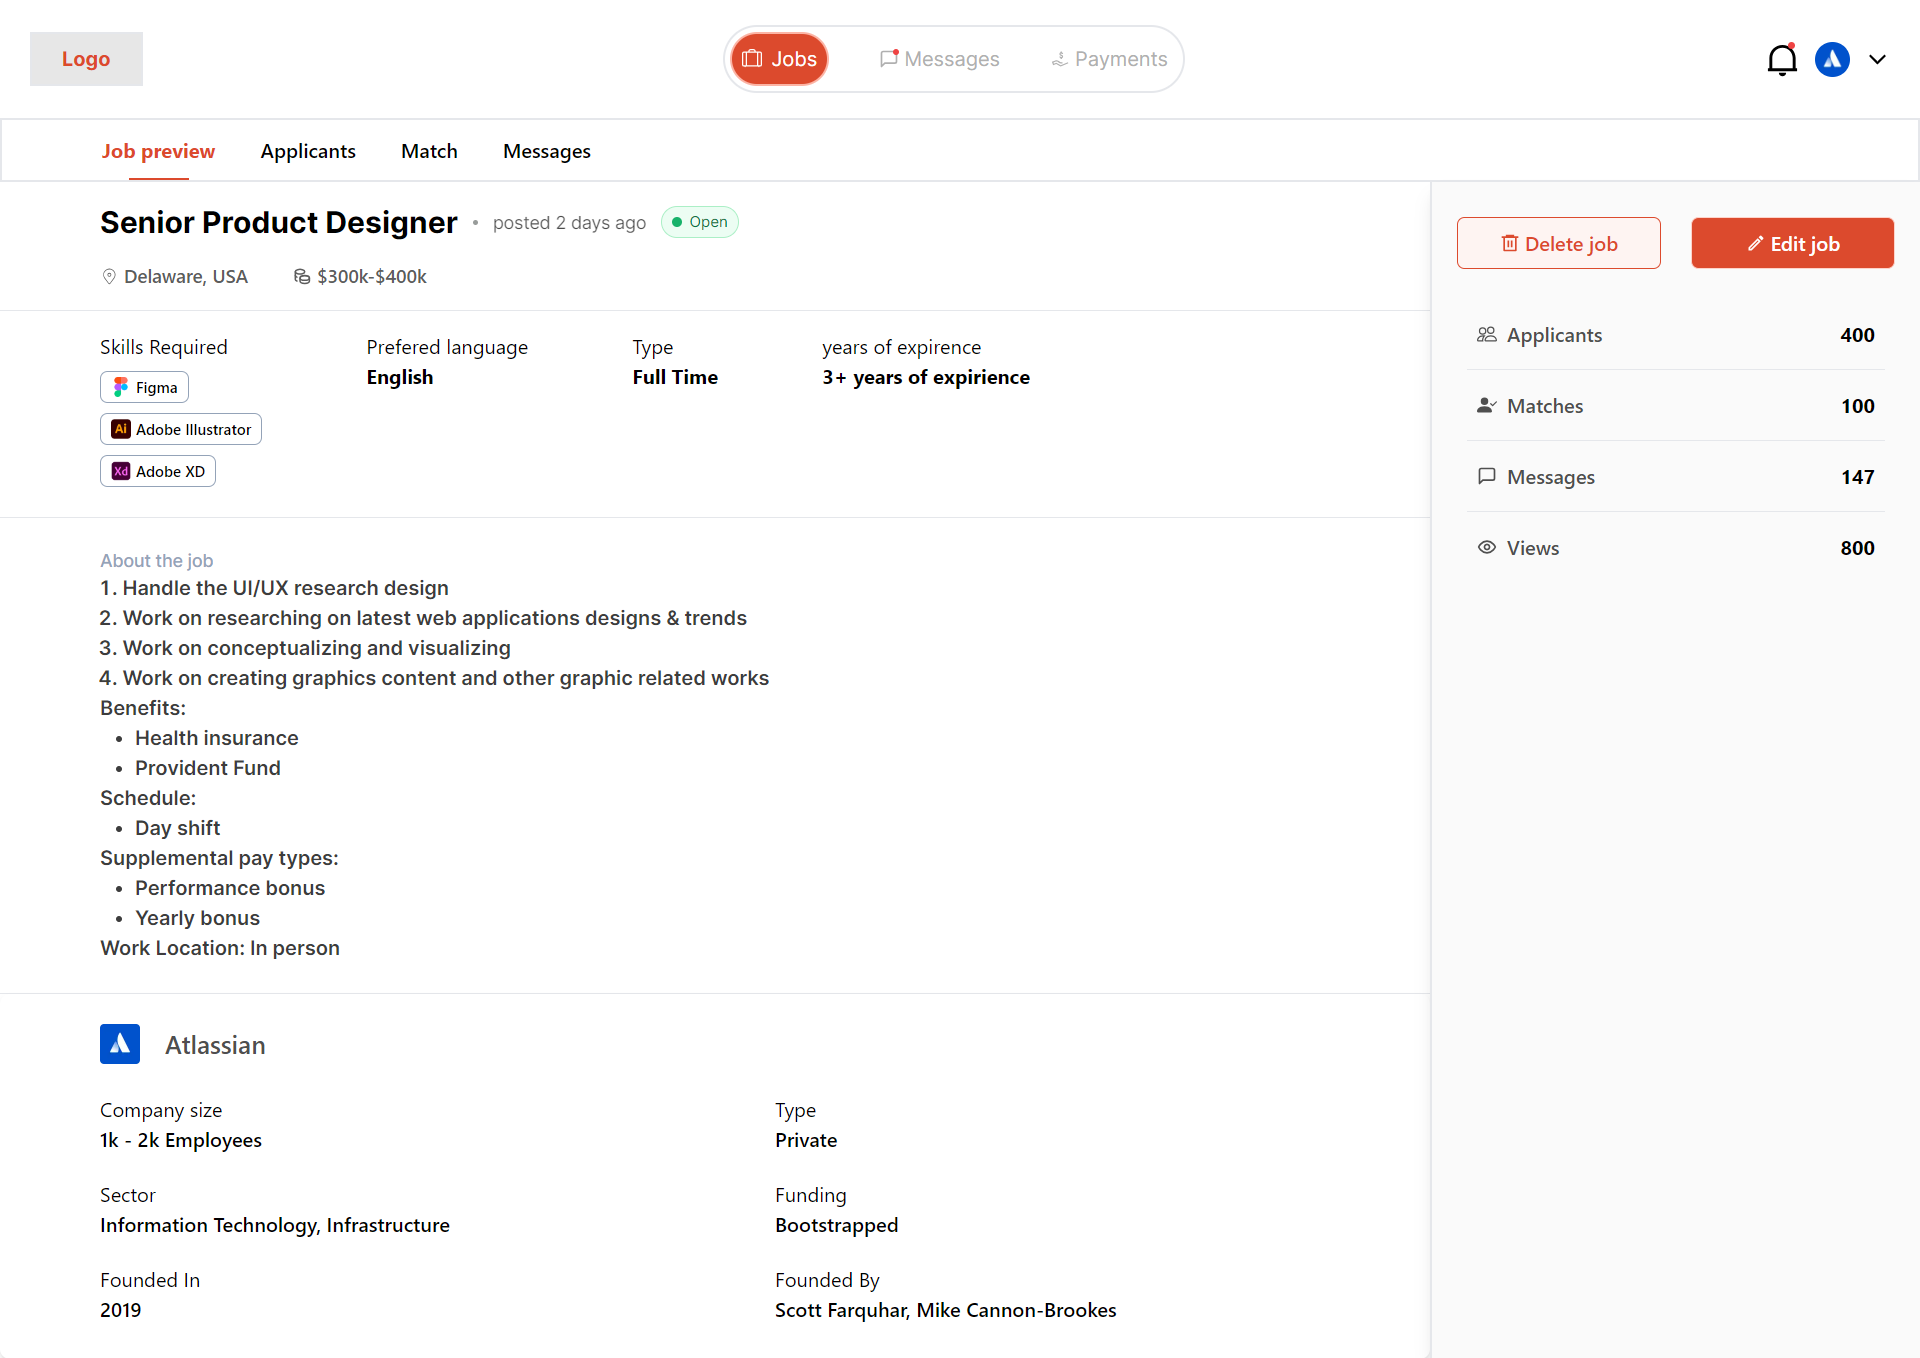
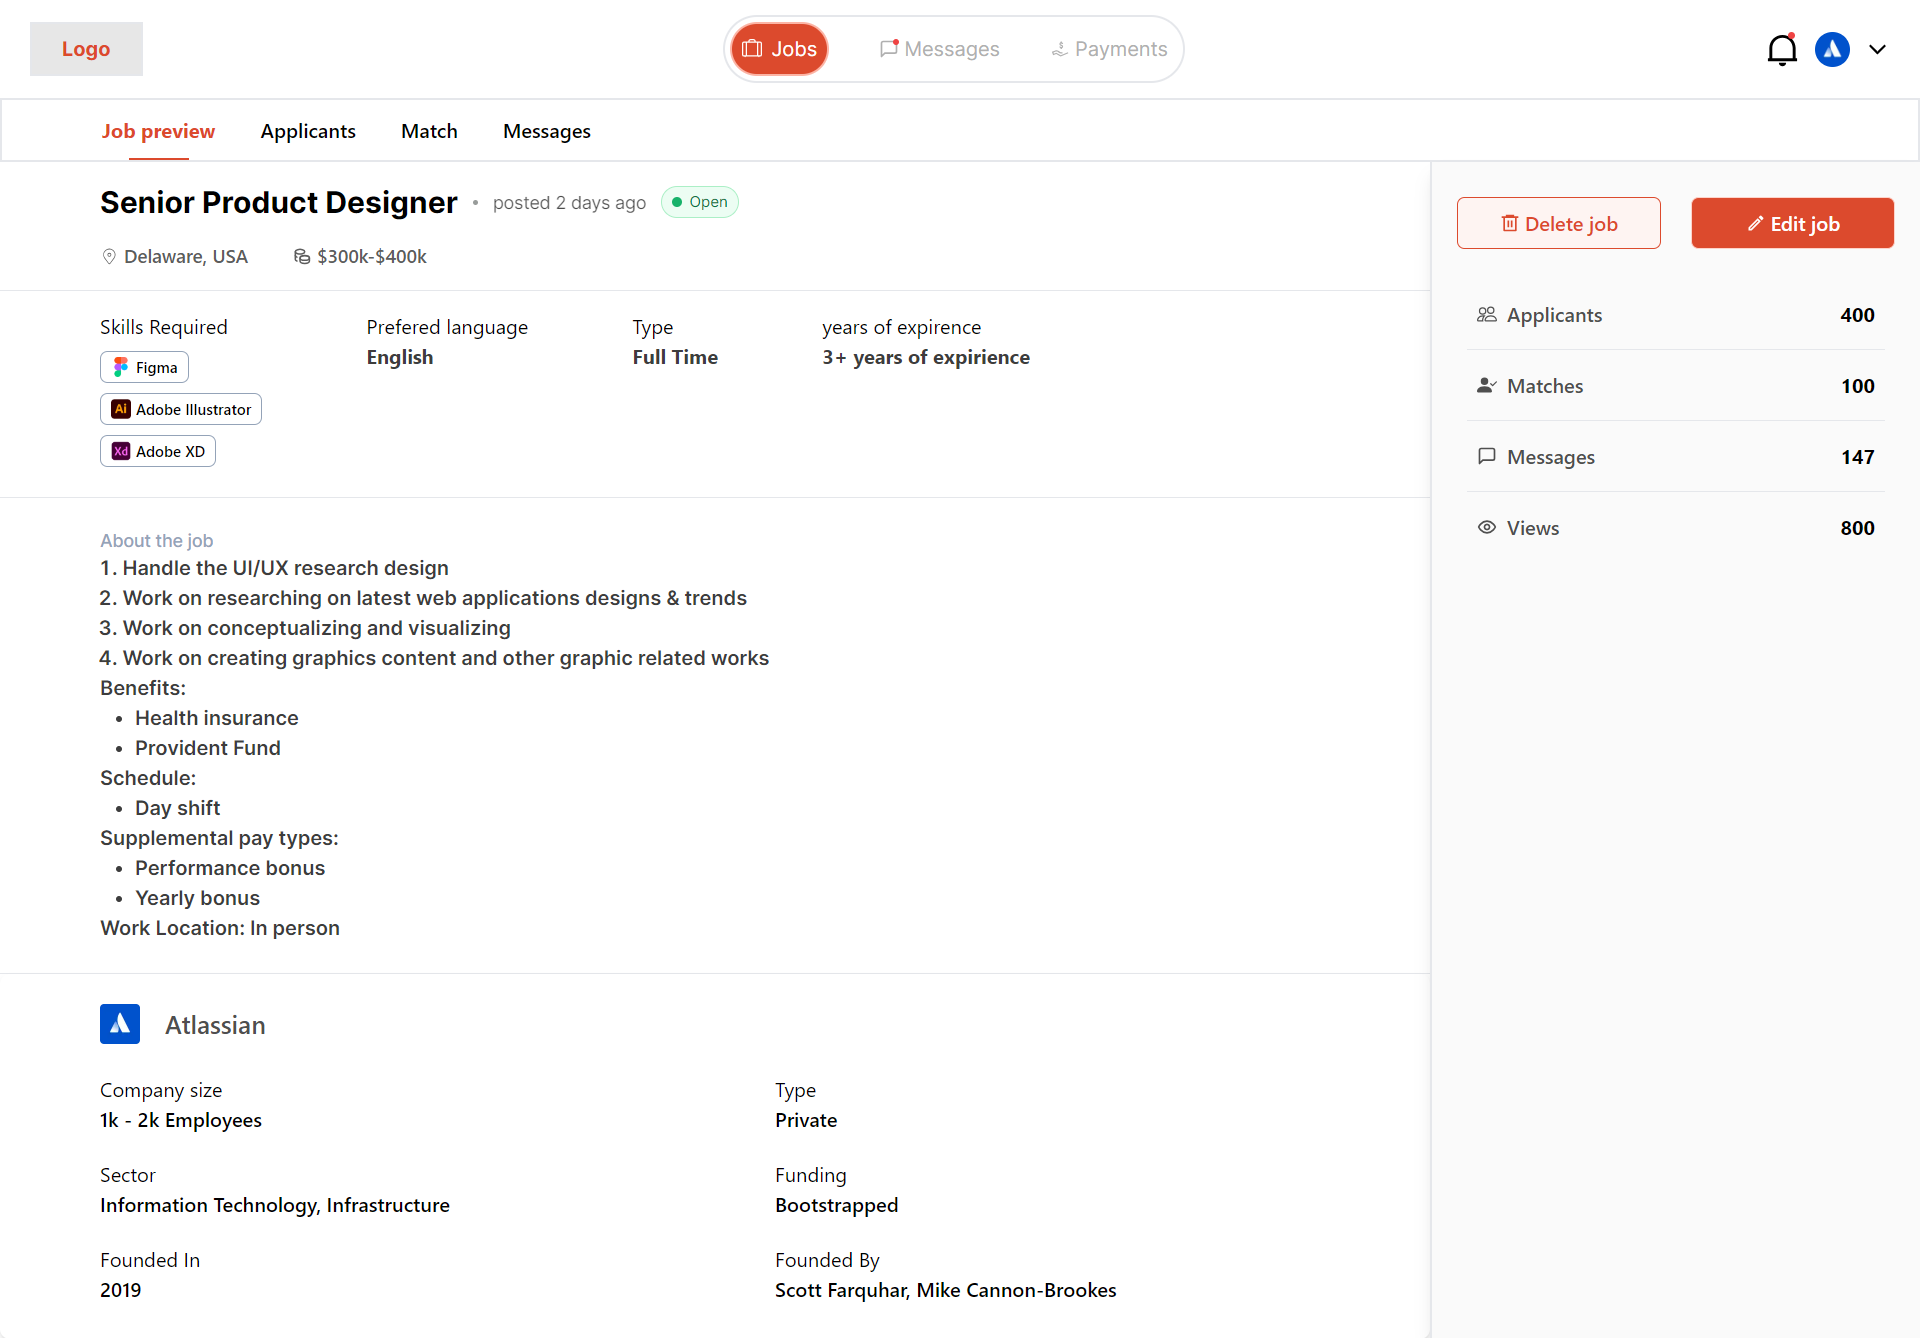
Some changes

diff --git a/components/LeftM.jsx b/components/LeftM.jsx
@@ -63,15 +63,15 @@ const LeftM = () => {
           </div>
           <div className="flex flex-col ">
             Prefered language
-            <span className="font-[700]">English</span>
+            <span className="font-[700] text-[#3D3D3D]">English</span>
           </div>
           <div className="flex flex-col">
             Type
-            <span className="font-[700]">Full Time</span>
+            <span className="font-[700] text-[#3D3D3D]">Full Time</span>
           </div>
           <div className="flex flex-col">
             years of expirence
-            <span className="font-[700]">3+ years of expirience</span>
+            <span className="font-[700] text-[#3D3D3D]">3+ years of expirience</span>
           </div>
         </div>
 

diff --git a/components/header.jsx b/components/header.jsx
@@ -10,7 +10,7 @@ import Image from "next/image";
 const header = () => {
   return (
     <>
-      <div className="flex items-center justify-between my-5 mx-6">
+      <div className="flex items-center justify-between my-3 mx-6">
         <div className="border-solid border-2 px-6 py-2 bg-[#E7E7E7] text-[#DC4A2D] font-poppins font-[700]">
           Logo
         </div>
